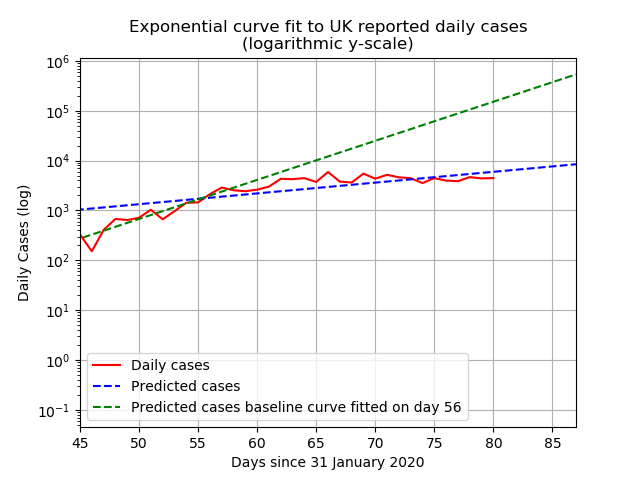
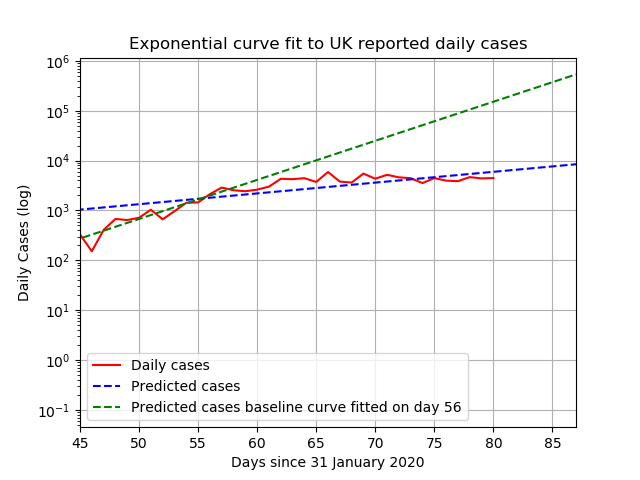
Daily run

Changed region(s): [[0.1875, 0.0312, 0.8438, 0.125]]

diff --git a/src/curvefit.py b/src/curvefit.py
@@ -28,11 +28,13 @@ offset_high = 15
 plt_start = 45
 # Maximum cases to show on plot
 max_cases_plt = 9000
+max_deaths_plt = 1000
 # Day to start doubliong time calc and plot
 doubling_time_start = 50  # Day to start doubliong time calc and plot
 # Parameters for baseline exponential new cases curve roughly a week after
 # lockdown was announced
-bl_cases_param = [0.08139621,1.19780593]
+bl_cases_param = [0.08139621, 1.19780593]
+bl_deaths_param = [5.44821942e-04, 1.24617849]
 
 # Test exponential function with coefficients as parameters
 def test(x, a, b):
@@ -138,7 +140,7 @@ def main():
     cases_ans, cases_param, cases_param_cov = exp_fit(daily_cases, days,
                                                         predicted_days)
     print(bl_cases_param)
-    bl_cases_ans = (bl_cases_param[0]*bl_cases_param[1]**np.array(predicted_days))
+    bl_cases = (bl_cases_param[0]*bl_cases_param[1]**np.array(predicted_days))
     print("<h3>Exponential function coefficients for new cases</h3>",
           file=f_out)
     print(cases_param, file=f_out)
@@ -152,7 +154,7 @@ def main():
     plt.plot(days, daily_cases, '-', color ='red', label ="Daily cases")
     plt.plot(predicted_days, cases_ans, '--', color ='blue',
              label="Predicted cases")
-    plt.plot(predicted_days, bl_cases_ans, '--', color ='green',
+    plt.plot(predicted_days, bl_cases, '--', color ='green',
              label="Predicted cases baseline curve fitted on day 56")
     plt.legend()
     plt.grid(True)
@@ -165,22 +167,21 @@ def main():
     plt.close()
 
     plot_title = "Exponential curve fit to UK reported daily cases"
+    plot_title + "\n(logarithmic y-scale)"
     plt.title(plot_title)
     plt.plot(days, daily_cases, '-', color ='red', label ="Daily cases")
     plt.plot(predicted_days, cases_ans, '--', color ='blue',
              label="Predicted cases")
-    plt.plot(predicted_days, bl_cases_ans, '--', color ='green',
+    plt.plot(predicted_days, bl_cases, '--', color ='green',
              label="Predicted cases baseline curve fitted on day 56")
     plt.legend()
     plt.grid(True)
     plt.xlim([plt_start, len(predicted_days)])
-    plt.ylabel("Daily Cases")
     plt.xlabel("Days since 31 January 2020")
-    plt.title(plot_title + "\n(logarithmic y-scale)")
     plt.yscale('log')
     plt.ylabel("Daily Cases (log)")
     plt.savefig("./out/cases-log.png")
-    plt.show()
+    #plt.show()
     plt.close()
 
     print("Calculate doubling times for new cases...")
@@ -196,9 +197,11 @@ def main():
     plt.savefig("./out/casesdt.png")
     plt.close()
 
+    # Deaths curve fit and plots
     print("Fit curve to new deaths ...")
     deaths_ans, deaths_param, deaths_param_cov = exp_fit(daily_deaths, days,
                                                           predicted_days)
+    bl_deaths=(bl_deaths_param[0]*bl_deaths_param[1]**np.array(predicted_days))
     print("<h3>Exponential function coefficients for daily deaths</h3>",
           file=f_out)
     print(deaths_param,file=f_out)
@@ -210,14 +213,31 @@ def main():
     plt.plot(days, daily_deaths, '-', color ='black', label ="Daily deaths")
     plt.plot(predicted_days, deaths_ans, '--', color ='grey',
              label ="Predicted deaths")
+    plt.plot(predicted_days, bl_deaths, '--', color ='green',
+             label="Predicted deaths baseline curve fitted on day 63")
     plt.legend()
     plt.grid(True)
     plt.xlim([plt_start, len(predicted_days)])
+    plt.ylim(0, max_deaths_plt)
     plt.ylabel("Daily Deaths")
     plt.xlabel("Days since 31 January 2020")
     plt.savefig("./out/deaths.png")
+    plt.close()
+
+
+    # Deaths with log y-scale
+    plot_title = "Exponential curve fit to UK reported daily deaths"
+    plot_title += "\n(logarithmic y-scale)"
+    plt.title(plot_title)
+    plt.plot(days, daily_deaths, '-', color ='black', label ="Daily deaths")
+    plt.plot(predicted_days, deaths_ans, '--', color ='grey',
+             label ="Predicted deaths")
+    plt.plot(predicted_days, bl_deaths, '--', color ='green',
+             label="Predicted deaths baseline curve fitted on day 63")
     plt.yscale('log')
-    plt.title(plot_title + "\n(logarithmic y-scale)")
+    plt.legend()
+    plt.grid(True)
+    plt.xlim([plt_start, len(predicted_days)])
     plt.ylabel("Daily Deaths (log)")
     plt.savefig("./out/deaths-log.png")
     #plt.show()

diff --git a/README.md b/README.md
@@ -9,7 +9,7 @@ Since 10 April positive tests have been divided into pillars. This data set only
 this ensures consistency with the previous data and is a better indicator for
 the last graph.
 A green line has been added, this shows the exponential curve calculated using
-the data up to day 56, about a week after lockdown. This estimates what would 
+the data up to day 56, about a week after lockdown. This estimates what would
 have happened without intervention.
 
 ![Graph of actual cases and exponential curve](./out/cases.png)
@@ -19,6 +19,10 @@ The following graph shows the doubling time for new cases (up is good).
 This is calculated by fitting an exponential curve up to the each date
 and calculating the doubling time from the growth rate.
 ![Graph of actual cases and exponential curve](./out/casesdt.png)
+
+A green line has been added, this shows the exponential curve calculated using
+the data up to day 63, about a two weeks after lockdown. This estimates what  
+would have happened without intervention.
 
 ![Graph of actual cases and exponential deaths](./out/deaths.png)
 ![Graph of actual cases and exponential deaths](./out/deaths-log.png)
@@ -49,4 +53,4 @@ Output Details
 6 20%
 <h4>Average Error</h4>
 40.34
-<br /><br />Last updated on 2020-04-20 10:14:22.392386
+<br /><br />Last updated on 2020-04-20 12:32:38.062345

diff --git a/src/READMEtemplate.md b/src/READMEtemplate.md
@@ -9,7 +9,7 @@ Since 10 April positive tests have been divided into pillars. This data set only
 this ensures consistency with the previous data and is a better indicator for
 the last graph.
 A green line has been added, this shows the exponential curve calculated using
-the data up to day 56, about a week after lockdown. This estimates what would 
+the data up to day 56, about a week after lockdown. This estimates what would
 have happened without intervention.
 
 ![Graph of actual cases and exponential curve](./out/cases.png)
@@ -19,6 +19,10 @@ The following graph shows the doubling time for new cases (up is good).
 This is calculated by fitting an exponential curve up to the each date
 and calculating the doubling time from the growth rate.
 ![Graph of actual cases and exponential curve](./out/casesdt.png)
+
+A green line has been added, this shows the exponential curve calculated using
+the data up to day 63, about a two weeks after lockdown. This estimates what  
+would have happened without intervention.
 
 ![Graph of actual cases and exponential deaths](./out/deaths.png)
 ![Graph of actual cases and exponential deaths](./out/deaths-log.png)

diff --git a/out/fit.md b/out/fit.md
@@ -12,4 +12,4 @@
 6 20%
 <h4>Average Error</h4>
 40.34
-<br /><br />Last updated on 2020-04-20 10:14:22.392386
+<br /><br />Last updated on 2020-04-20 12:32:38.062345
